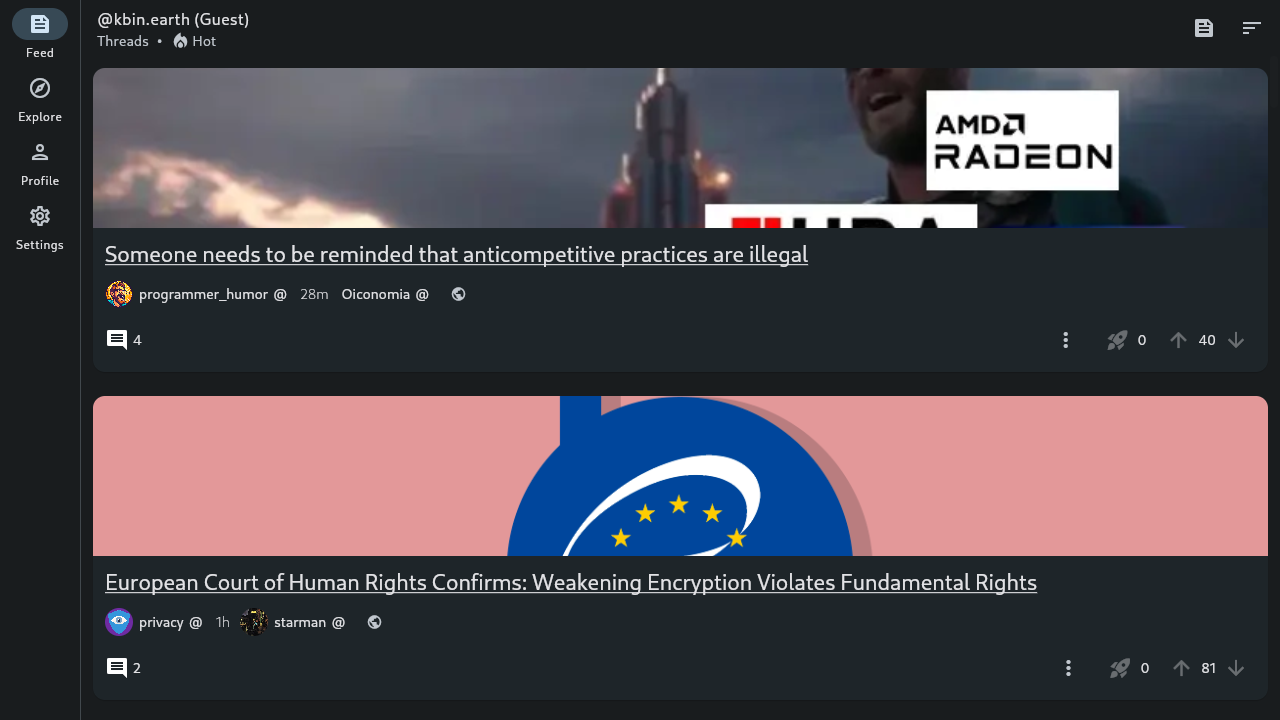
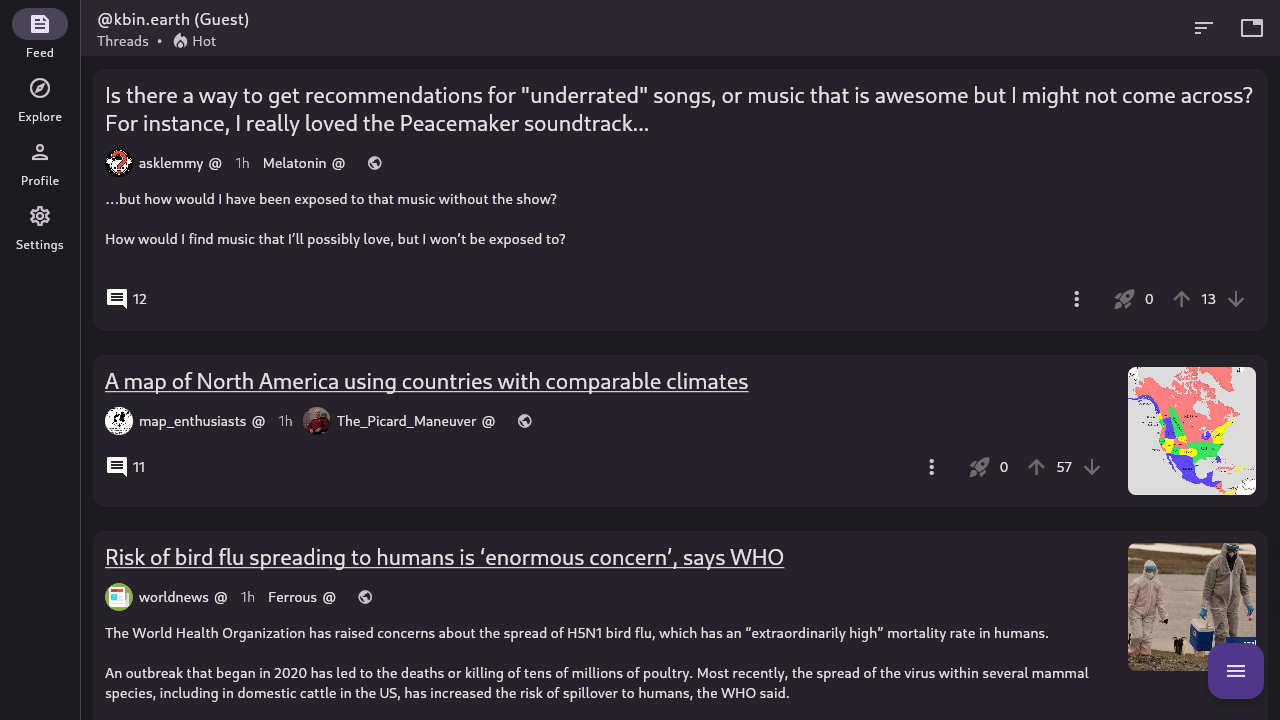
Update desktop screenshots

diff --git a/README.md b/README.md
@@ -17,6 +17,7 @@ You can ask questions, report bugs, or make suggestions either here on [GitHub](
 
 <div align="center">
 <img src="assets/screenshots/desktop-3.png"  width="800"></img>
+<img src="assets/screenshots/desktop-2.png"  width="800"></img>
 <br>
 <img src="assets/screenshots/mobile-1.png" width="300"></img>
 <img src="assets/screenshots/mobile-2.png"  width="300"></img>
